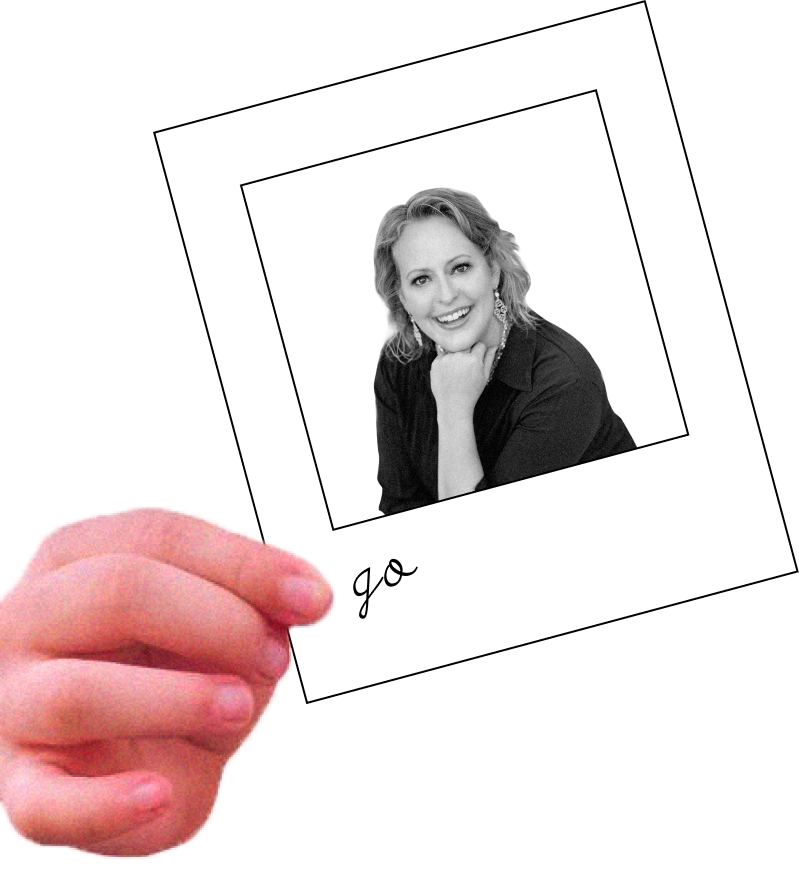
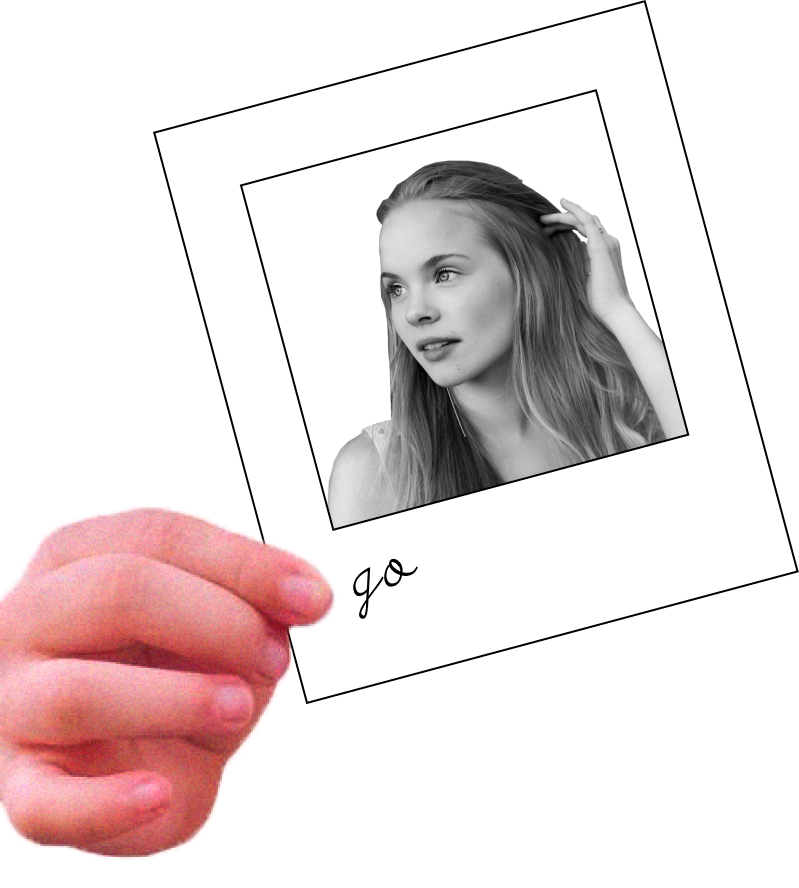
UPD
imgS

Changed region(s): [[0.3905, 0.1824, 0.8711, 0.6081]]

diff --git a/index.html b/index.html
@@ -91,7 +91,7 @@
     </section>
     <section id="endOfGame">
       <div class="before"><img src="img/before.png" alt="before" class="beforeImg"></div>
-      <div class="after"><img src="img/afterTemp.png" alt="after" class="afterImg"></div>
+      <div class="after"><img src="img/afterGreen.png" alt="after" class="afterImg"></div>
       <div id="endText"><img src="img/endText.png" alt="interface" id="endTextImg"></div>
       <div id="refresh"><img src="img/refresh.png" alt="refresh" id="refreshImg"></div>
   </body>
